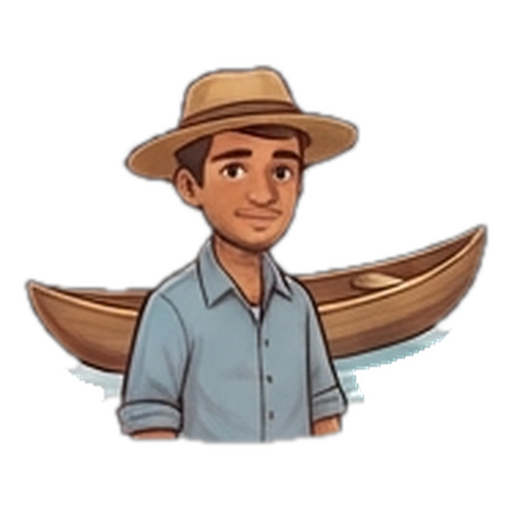
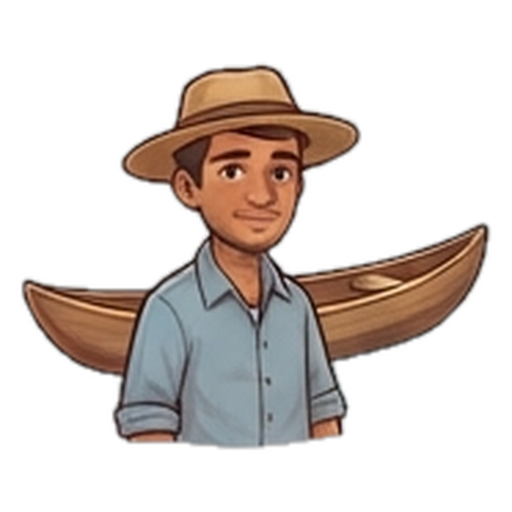
Personagens: vãos brancos entre braços e objetos sem fundo
fatiar_por_silhueta.py: região branca fechada pela figura é fundo quando
o removedor tem quase certeza (< 0,3), o que tira os vãos do Cícero, da
Dandara, do Chico, do Dico e da Zulma sem furar aventais nem o Mingau.
Corrige também linhas apagadas por engano que faziam o script falhar.

Claude-Session: https://claude.ai/code/session_016wJzKn9f3nBJFY6j7rFUfs

diff --git a/docs/arte/itens/fatiar_por_silhueta.py b/docs/arte/itens/fatiar_por_silhueta.py
@@ -18,12 +18,24 @@ codigos = json.load(open(os.path.join(AQUI, 'grades.json')))[lote]
 img = Image.open(grade).convert('RGB'); W, H = img.size; cw, ch = W / cols, H / rows
 a = R.mascara(img)
 lab, n = ndimage.label(ndimage.binary_closing(a > 0.5, iterations=2))
-# Fundo de verdade: o branco ligado às bordas da imagem. Branco cercado pelo contorno (aventais, dentes) fica opaco.
-px = np.asarray(img).astype(int); claro = px.min(2) > 236
-cl, _ = ndimage.label(claro); borda = set(np.unique(np.concatenate([cl[0], cl[-1], cl[:, 0], cl[:, -1]]))) - {0}
-fundo = ndimage.binary_dilation(np.isin(cl, list(borda)), iterations=1)
+# Alfa final, região por região:
+#  - branco ligado às bordas da imagem: fundo;
+#  - região clara FECHADA pela figura (vão entre os braços, dentro do carrinho): fundo se o removedor tem quase
+#    certeza; avental, dentes e gato branco ficam opacos, sem meio-termo;
+#  - o resto: figura onde o removedor tem confiança (> 0,35); abaixo disso (sombra no chão, halos) some.
 from PIL import ImageFilter
-alfa_borda = np.asarray(Image.fromarray(((~fundo) * 255).astype(np.uint8)).filter(ImageFilter.GaussianBlur(1.0))).astype(float) / 255
+px = np.asarray(img).astype(int); sat = px.max(2) - px.min(2)
+claro = (px.min(2) > 225) & (sat < 14)          # rígido: o branco do avental não vaza pelo contorno até o fundo de fora
+cl, cn = ndimage.label(claro)
+borda = set(np.unique(np.concatenate([cl[0], cl[-1], cl[:, 0], cl[:, -1]]))) - {0}
+idx = range(1, cn + 1)
+media = ndimage.mean(a, cl, idx)
+# região fechada é fundo quando o removedor de fundo tem quase certeza (< 0,3): vãos entre braços e objetos ficam
+# entre 0,02 e 0,15; aventais, dentes e o gato branco, acima de 0,35
+fundo_ids = [i for i in idx if i in borda or media[i - 1] < 0.3]
+fig = np.where(claro, ~np.isin(cl, fundo_ids), a > 0.35)
+fig = ndimage.binary_opening(fig, iterations=1)
+alfa_borda = np.asarray(Image.fromarray((fig * 255).astype(np.uint8)).filter(ImageFilter.GaussianBlur(0.8))).astype(float) / 255
 centros = ndimage.center_of_mass(np.ones_like(lab), lab, range(1, n + 1))
 areas = ndimage.sum(np.ones_like(lab), lab, range(1, n + 1))
 dono = {}
